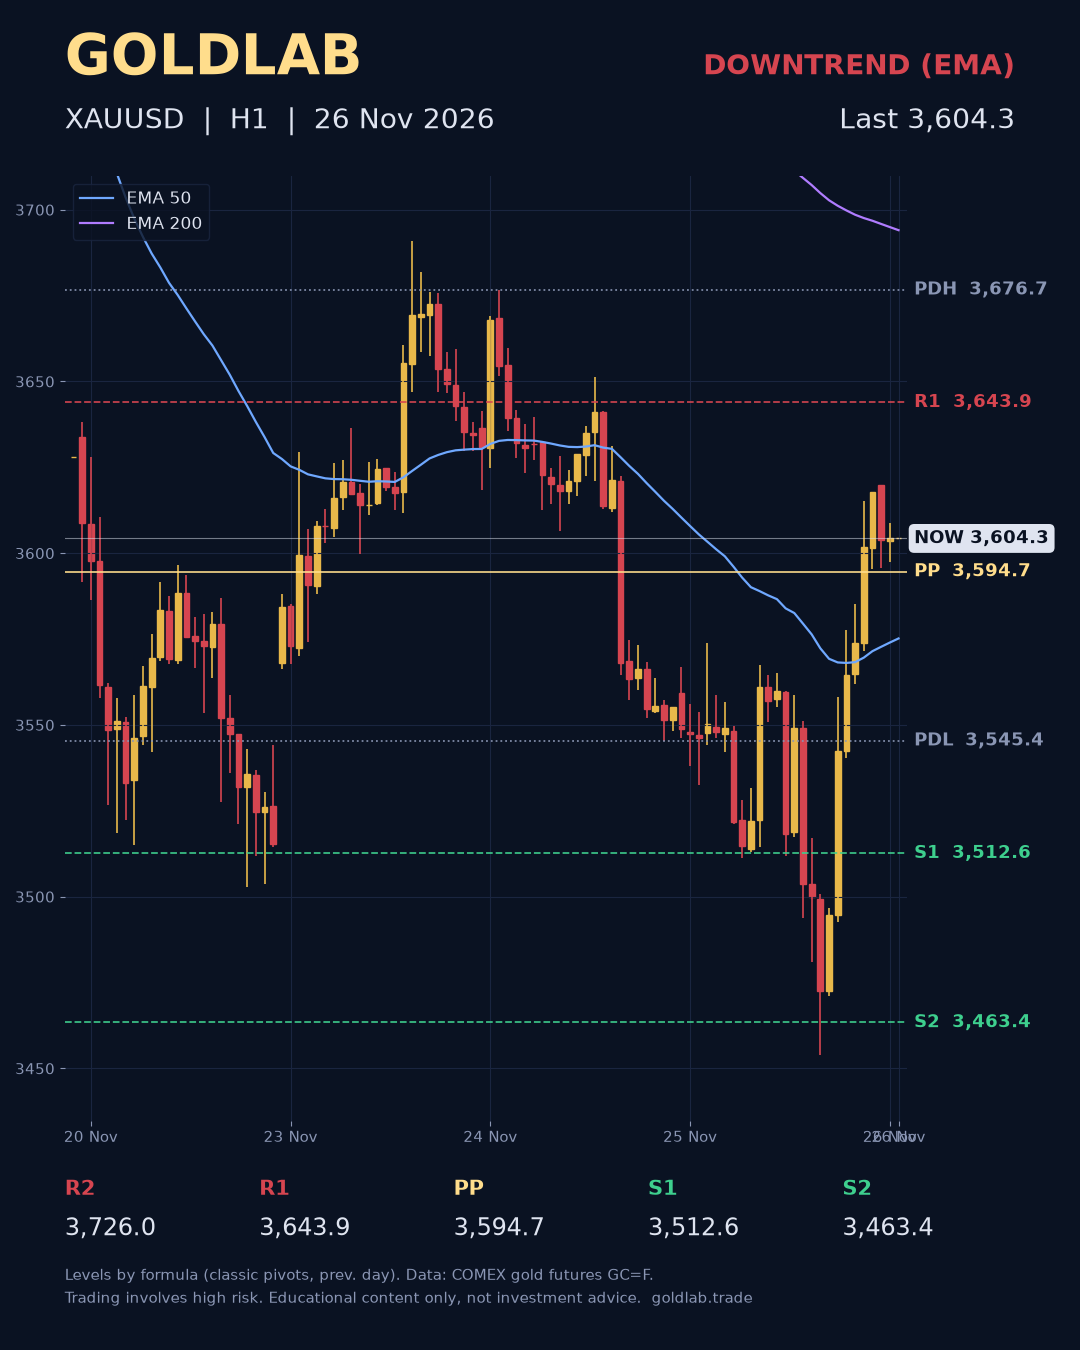
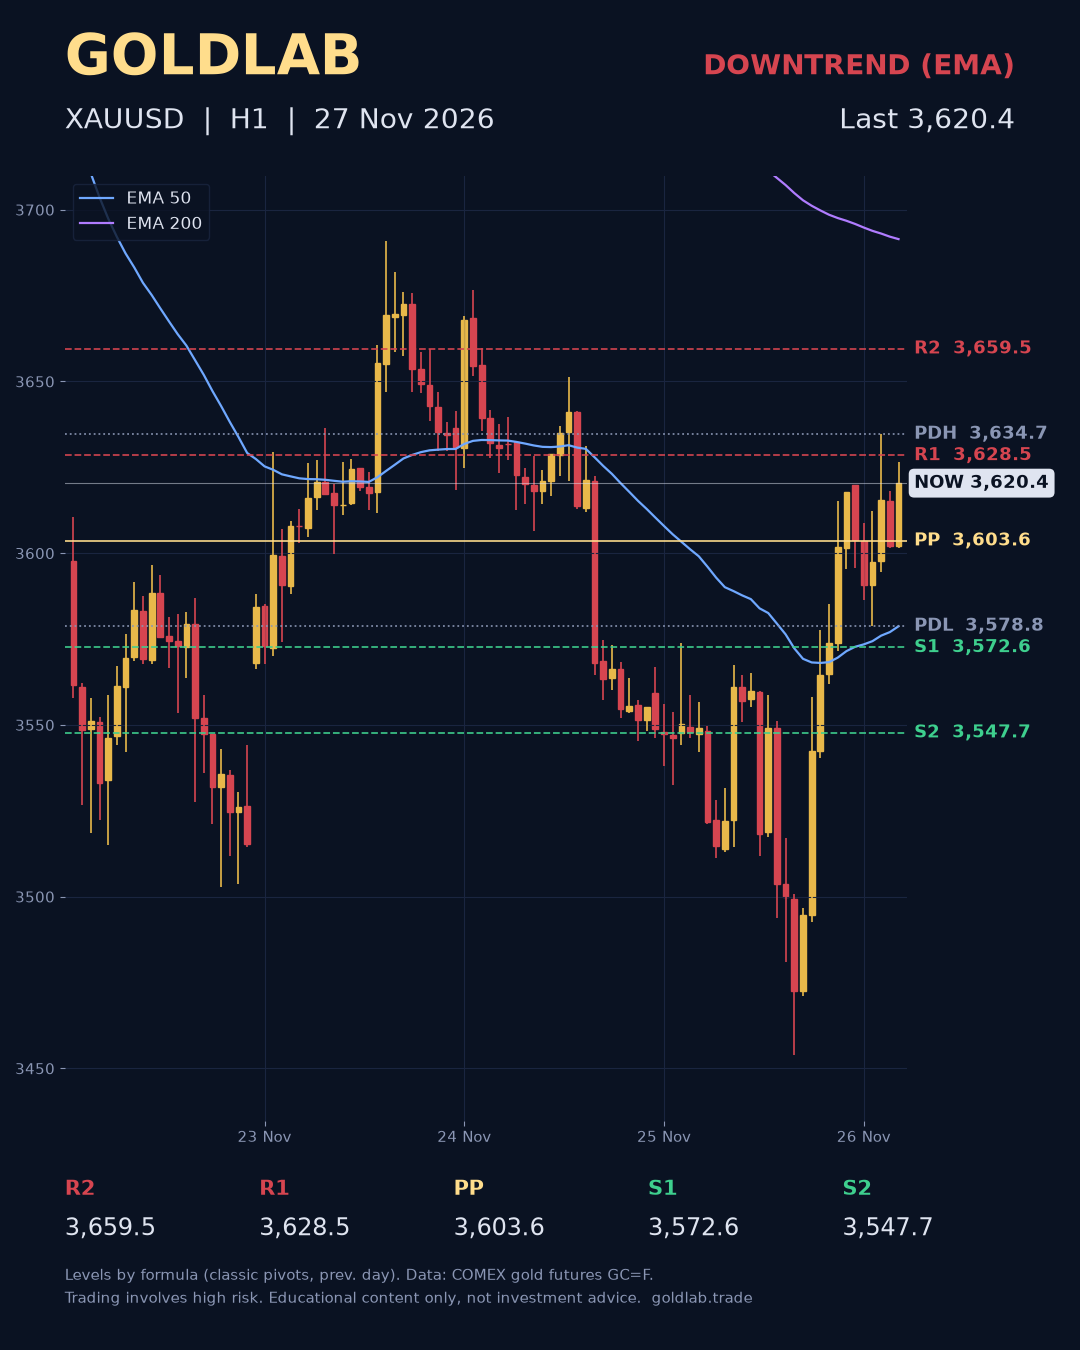
Update gold price 3,620.4 (2026-11-27 00:45 UTC)

diff --git a/th/index.html b/th/index.html
@@ -61,7 +61,7 @@
     </div>
     <figure class="chart-card">
       <img src="../assets/latest.png" alt="กราฟ XAUUSD · H1" width="1080" height="1350">
-      <figcaption class="chart-meta"><span>กราฟ XAUUSD · H1</span><span>อัปเดต <b>2026-11-26 00:45 UTC</b></span></figcaption>
+      <figcaption class="chart-meta"><span>กราฟ XAUUSD · H1</span><span>อัปเดต <b>2026-11-27 00:45 UTC</b></span></figcaption>
     </figure>
   </div>
 </section>
@@ -76,19 +76,19 @@
     <div class="levels">
       <div class="panel">
         <div class="label">ราคาล่าสุด (USD/ออนซ์)</div>
-        <div class="price-big">3,604.3</div>
+        <div class="price-big">3,620.4</div>
         <span class="trend down">ขาลง</span>
         <p class="trend-note">ราคาอยู่ใต้ EMA 50 และ 200 บนกราฟ H1</p>
       </div>
       <div class="panel">
         <div class="ladder">
-          <div class="row r"><span class="tag">R2</span><span class="bar"></span><span class="val">3,726.0</span></div>
-          <div class="row r"><span class="tag">R1</span><span class="bar"></span><span class="val">3,643.9</span></div>
-          <div class="row p"><span class="tag">PIVOT</span><span class="bar"></span><span class="val">3,594.7</span></div>
-          <div class="row s"><span class="tag">S1</span><span class="bar"></span><span class="val">3,512.6</span></div>
-          <div class="row s"><span class="tag">S2</span><span class="bar"></span><span class="val">3,463.4</span></div>
+          <div class="row r"><span class="tag">R2</span><span class="bar"></span><span class="val">3,659.5</span></div>
+          <div class="row r"><span class="tag">R1</span><span class="bar"></span><span class="val">3,628.5</span></div>
+          <div class="row p"><span class="tag">PIVOT</span><span class="bar"></span><span class="val">3,603.6</span></div>
+          <div class="row s"><span class="tag">S1</span><span class="bar"></span><span class="val">3,572.6</span></div>
+          <div class="row s"><span class="tag">S2</span><span class="bar"></span><span class="val">3,547.7</span></div>
         </div>
-        <p class="src">High วันก่อน <b>3,676.7</b> · Low วันก่อน <b>3,545.4</b><br>ข้อมูล: ทองคำล่วงหน้า COMEX (GC=F) ล่าช้าประมาณ 15 นาที ราคาอาจต่างจากราคา spot ในโบรกของคุณเล็กน้อย</p>
+        <p class="src">High วันก่อน <b>3,634.7</b> · Low วันก่อน <b>3,578.8</b><br>ข้อมูล: ทองคำล่วงหน้า COMEX (GC=F) ล่าช้าประมาณ 15 นาที ราคาอาจต่างจากราคา spot ในโบรกของคุณเล็กน้อย</p>
       </div>
     </div>
   </div>

diff --git a/vi/index.html b/vi/index.html
@@ -61,7 +61,7 @@
     </div>
     <figure class="chart-card">
       <img src="../assets/latest.png" alt="Biểu đồ XAUUSD · H1" width="1080" height="1350">
-      <figcaption class="chart-meta"><span>Biểu đồ XAUUSD · H1</span><span>Cập nhật <b>2026-11-26 00:45 UTC</b></span></figcaption>
+      <figcaption class="chart-meta"><span>Biểu đồ XAUUSD · H1</span><span>Cập nhật <b>2026-11-27 00:45 UTC</b></span></figcaption>
     </figure>
   </div>
 </section>
@@ -76,19 +76,19 @@
     <div class="levels">
       <div class="panel">
         <div class="label">Giá gần nhất (USD/oz)</div>
-        <div class="price-big">3,604.3</div>
+        <div class="price-big">3,620.4</div>
         <span class="trend down">Xu hướng giảm</span>
         <p class="trend-note">Giá nằm dưới cả EMA 50 và 200 khung H1.</p>
       </div>
       <div class="panel">
         <div class="ladder">
-          <div class="row r"><span class="tag">R2</span><span class="bar"></span><span class="val">3,726.0</span></div>
-          <div class="row r"><span class="tag">R1</span><span class="bar"></span><span class="val">3,643.9</span></div>
-          <div class="row p"><span class="tag">PIVOT</span><span class="bar"></span><span class="val">3,594.7</span></div>
-          <div class="row s"><span class="tag">S1</span><span class="bar"></span><span class="val">3,512.6</span></div>
-          <div class="row s"><span class="tag">S2</span><span class="bar"></span><span class="val">3,463.4</span></div>
+          <div class="row r"><span class="tag">R2</span><span class="bar"></span><span class="val">3,659.5</span></div>
+          <div class="row r"><span class="tag">R1</span><span class="bar"></span><span class="val">3,628.5</span></div>
+          <div class="row p"><span class="tag">PIVOT</span><span class="bar"></span><span class="val">3,603.6</span></div>
+          <div class="row s"><span class="tag">S1</span><span class="bar"></span><span class="val">3,572.6</span></div>
+          <div class="row s"><span class="tag">S2</span><span class="bar"></span><span class="val">3,547.7</span></div>
         </div>
-        <p class="src">Đỉnh phiên trước <b>3,676.7</b> · Đáy phiên trước <b>3,545.4</b><br>Dữ liệu: hợp đồng vàng tương lai COMEX (GC=F), trễ khoảng 15 phút. Giá có thể chênh vài đô la so với giá spot của sàn bạn dùng.</p>
+        <p class="src">Đỉnh phiên trước <b>3,634.7</b> · Đáy phiên trước <b>3,578.8</b><br>Dữ liệu: hợp đồng vàng tương lai COMEX (GC=F), trễ khoảng 15 phút. Giá có thể chênh vài đô la so với giá spot của sàn bạn dùng.</p>
       </div>
     </div>
   </div>

diff --git a/es/index.html b/es/index.html
@@ -61,7 +61,7 @@
     </div>
     <figure class="chart-card">
       <img src="../assets/latest.png" alt="Gráfico XAUUSD · H1" width="1080" height="1350">
-      <figcaption class="chart-meta"><span>Gráfico XAUUSD · H1</span><span>Actualizado <b>2026-11-26 00:45 UTC</b></span></figcaption>
+      <figcaption class="chart-meta"><span>Gráfico XAUUSD · H1</span><span>Actualizado <b>2026-11-27 00:45 UTC</b></span></figcaption>
     </figure>
   </div>
 </section>
@@ -76,19 +76,19 @@
     <div class="levels">
       <div class="panel">
         <div class="label">Último precio (USD/oz)</div>
-        <div class="price-big">3,604.3</div>
+        <div class="price-big">3,620.4</div>
         <span class="trend down">Tendencia bajista</span>
         <p class="trend-note">El precio está por debajo de la EMA 50 y 200 en H1.</p>
       </div>
       <div class="panel">
         <div class="ladder">
-          <div class="row r"><span class="tag">R2</span><span class="bar"></span><span class="val">3,726.0</span></div>
-          <div class="row r"><span class="tag">R1</span><span class="bar"></span><span class="val">3,643.9</span></div>
-          <div class="row p"><span class="tag">PIVOT</span><span class="bar"></span><span class="val">3,594.7</span></div>
-          <div class="row s"><span class="tag">S1</span><span class="bar"></span><span class="val">3,512.6</span></div>
-          <div class="row s"><span class="tag">S2</span><span class="bar"></span><span class="val">3,463.4</span></div>
+          <div class="row r"><span class="tag">R2</span><span class="bar"></span><span class="val">3,659.5</span></div>
+          <div class="row r"><span class="tag">R1</span><span class="bar"></span><span class="val">3,628.5</span></div>
+          <div class="row p"><span class="tag">PIVOT</span><span class="bar"></span><span class="val">3,603.6</span></div>
+          <div class="row s"><span class="tag">S1</span><span class="bar"></span><span class="val">3,572.6</span></div>
+          <div class="row s"><span class="tag">S2</span><span class="bar"></span><span class="val">3,547.7</span></div>
         </div>
-        <p class="src">Máximo anterior <b>3,676.7</b> · Mínimo anterior <b>3,545.4</b><br>Datos: futuros de oro COMEX (GC=F), con ~15 min de retraso. Pueden diferir unos dólares del precio spot de tu bróker.</p>
+        <p class="src">Máximo anterior <b>3,634.7</b> · Mínimo anterior <b>3,578.8</b><br>Datos: futuros de oro COMEX (GC=F), con ~15 min de retraso. Pueden diferir unos dólares del precio spot de tu bróker.</p>
       </div>
     </div>
   </div>

diff --git a/id/index.html b/id/index.html
@@ -61,7 +61,7 @@
     </div>
     <figure class="chart-card">
       <img src="../assets/latest.png" alt="Grafik XAUUSD · H1" width="1080" height="1350">
-      <figcaption class="chart-meta"><span>Grafik XAUUSD · H1</span><span>Diperbarui <b>2026-11-26 00:45 UTC</b></span></figcaption>
+      <figcaption class="chart-meta"><span>Grafik XAUUSD · H1</span><span>Diperbarui <b>2026-11-27 00:45 UTC</b></span></figcaption>
     </figure>
   </div>
 </section>
@@ -76,19 +76,19 @@
     <div class="levels">
       <div class="panel">
         <div class="label">Harga terakhir (USD/oz)</div>
-        <div class="price-big">3,604.3</div>
+        <div class="price-big">3,620.4</div>
         <span class="trend down">Tren turun</span>
         <p class="trend-note">Harga berada di bawah EMA 50 dan 200 pada H1.</p>
       </div>
       <div class="panel">
         <div class="ladder">
-          <div class="row r"><span class="tag">R2</span><span class="bar"></span><span class="val">3,726.0</span></div>
-          <div class="row r"><span class="tag">R1</span><span class="bar"></span><span class="val">3,643.9</span></div>
-          <div class="row p"><span class="tag">PIVOT</span><span class="bar"></span><span class="val">3,594.7</span></div>
-          <div class="row s"><span class="tag">S1</span><span class="bar"></span><span class="val">3,512.6</span></div>
-          <div class="row s"><span class="tag">S2</span><span class="bar"></span><span class="val">3,463.4</span></div>
+          <div class="row r"><span class="tag">R2</span><span class="bar"></span><span class="val">3,659.5</span></div>
+          <div class="row r"><span class="tag">R1</span><span class="bar"></span><span class="val">3,628.5</span></div>
+          <div class="row p"><span class="tag">PIVOT</span><span class="bar"></span><span class="val">3,603.6</span></div>
+          <div class="row s"><span class="tag">S1</span><span class="bar"></span><span class="val">3,572.6</span></div>
+          <div class="row s"><span class="tag">S2</span><span class="bar"></span><span class="val">3,547.7</span></div>
         </div>
-        <p class="src">High sebelumnya <b>3,676.7</b> · Low sebelumnya <b>3,545.4</b><br>Data: emas berjangka COMEX (GC=F), tertunda ~15 menit. Harga bisa berbeda beberapa dolar dari harga spot broker Anda.</p>
+        <p class="src">High sebelumnya <b>3,634.7</b> · Low sebelumnya <b>3,578.8</b><br>Data: emas berjangka COMEX (GC=F), tertunda ~15 menit. Harga bisa berbeda beberapa dolar dari harga spot broker Anda.</p>
       </div>
     </div>
   </div>

diff --git a/index.html b/index.html
@@ -61,7 +61,7 @@
     </div>
     <figure class="chart-card">
       <img src="assets/latest.png" alt="XAUUSD · H1 chart" width="1080" height="1350">
-      <figcaption class="chart-meta"><span>XAUUSD · H1 chart</span><span>Updated <b>2026-11-26 00:45 UTC</b></span></figcaption>
+      <figcaption class="chart-meta"><span>XAUUSD · H1 chart</span><span>Updated <b>2026-11-27 00:45 UTC</b></span></figcaption>
     </figure>
   </div>
 </section>
@@ -76,19 +76,19 @@
     <div class="levels">
       <div class="panel">
         <div class="label">Last price (USD/oz)</div>
-        <div class="price-big">3,604.3</div>
+        <div class="price-big">3,620.4</div>
         <span class="trend down">Downtrend</span>
         <p class="trend-note">Price is below both the 50 and 200 EMA on H1.</p>
       </div>
       <div class="panel">
         <div class="ladder">
-          <div class="row r"><span class="tag">R2</span><span class="bar"></span><span class="val">3,726.0</span></div>
-          <div class="row r"><span class="tag">R1</span><span class="bar"></span><span class="val">3,643.9</span></div>
-          <div class="row p"><span class="tag">PIVOT</span><span class="bar"></span><span class="val">3,594.7</span></div>
-          <div class="row s"><span class="tag">S1</span><span class="bar"></span><span class="val">3,512.6</span></div>
-          <div class="row s"><span class="tag">S2</span><span class="bar"></span><span class="val">3,463.4</span></div>
+          <div class="row r"><span class="tag">R2</span><span class="bar"></span><span class="val">3,659.5</span></div>
+          <div class="row r"><span class="tag">R1</span><span class="bar"></span><span class="val">3,628.5</span></div>
+          <div class="row p"><span class="tag">PIVOT</span><span class="bar"></span><span class="val">3,603.6</span></div>
+          <div class="row s"><span class="tag">S1</span><span class="bar"></span><span class="val">3,572.6</span></div>
+          <div class="row s"><span class="tag">S2</span><span class="bar"></span><span class="val">3,547.7</span></div>
         </div>
-        <p class="src">Previous high <b>3,676.7</b> · Previous low <b>3,545.4</b><br>Data: COMEX gold futures (GC=F), delayed ~15 min. Quotes can differ from your broker's spot price by a few dollars.</p>
+        <p class="src">Previous high <b>3,634.7</b> · Previous low <b>3,578.8</b><br>Data: COMEX gold futures (GC=F), delayed ~15 min. Quotes can differ from your broker's spot price by a few dollars.</p>
       </div>
     </div>
   </div>
